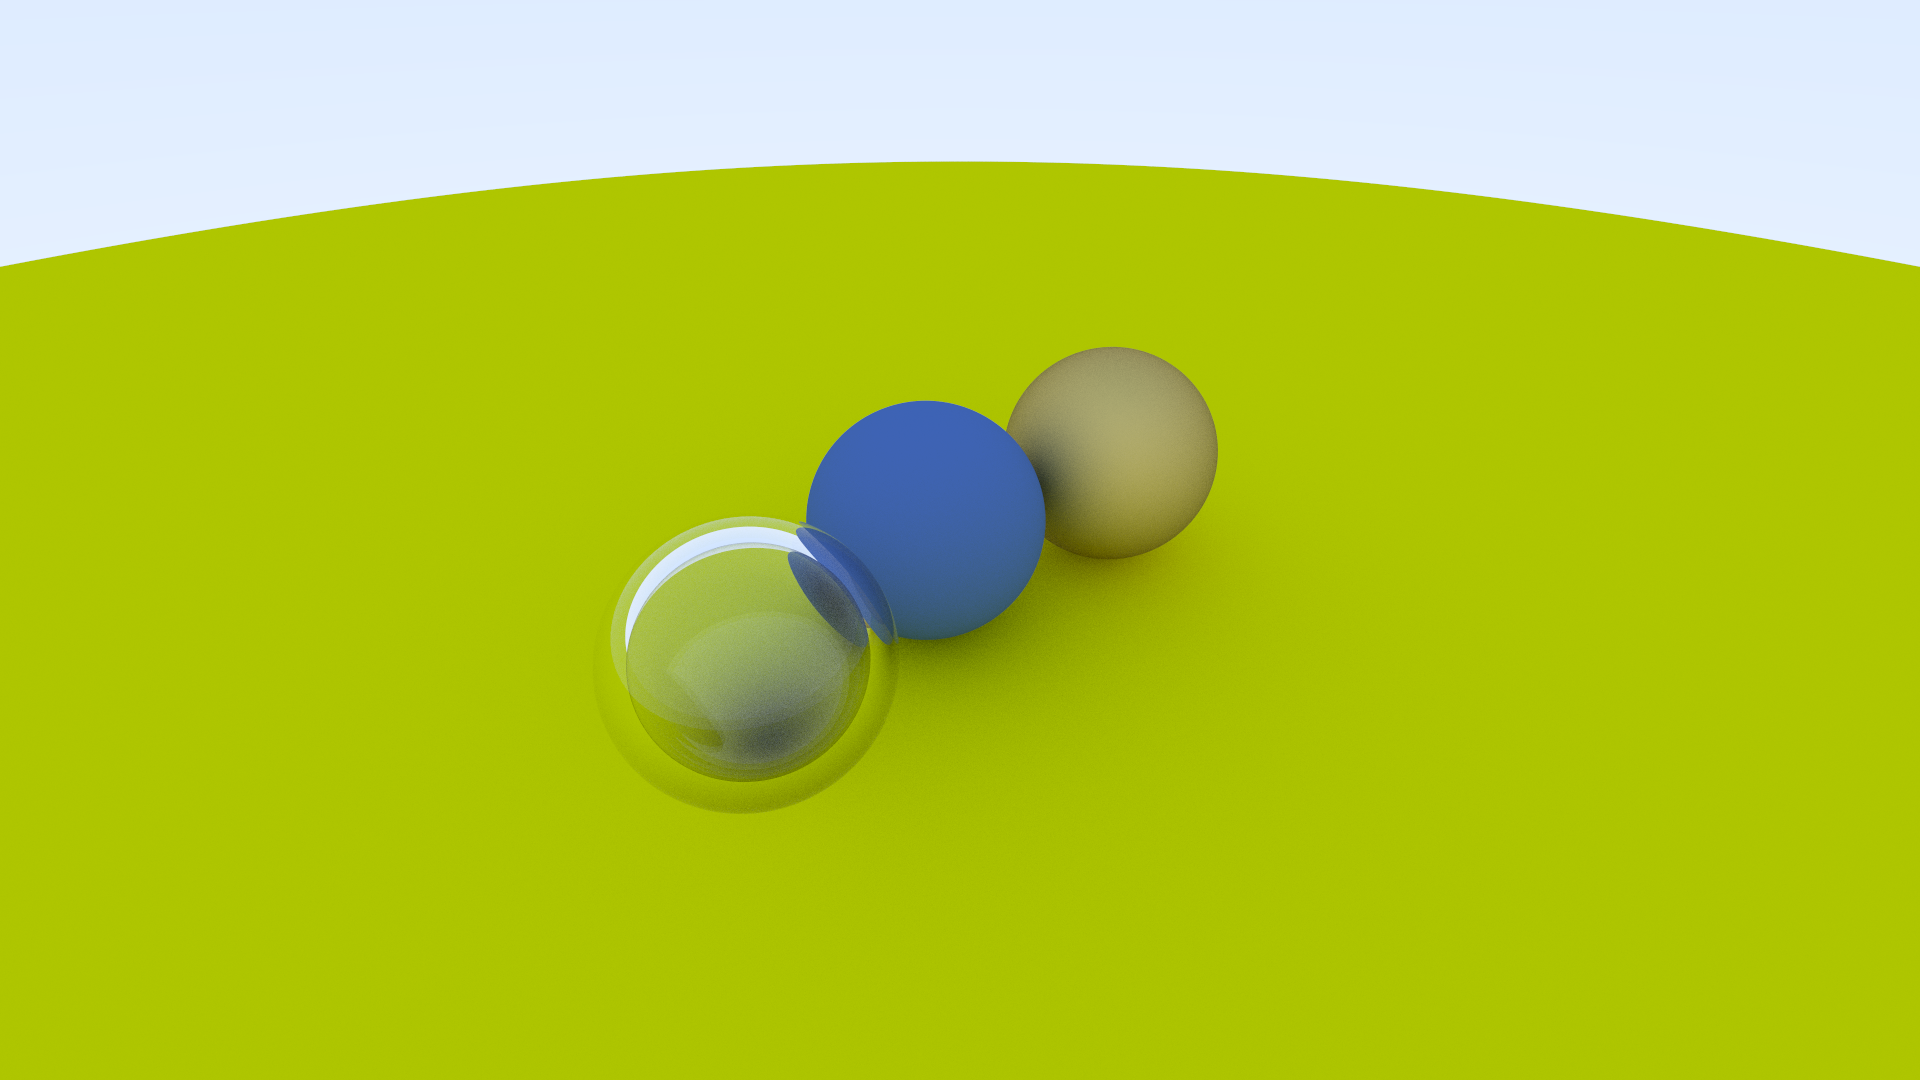
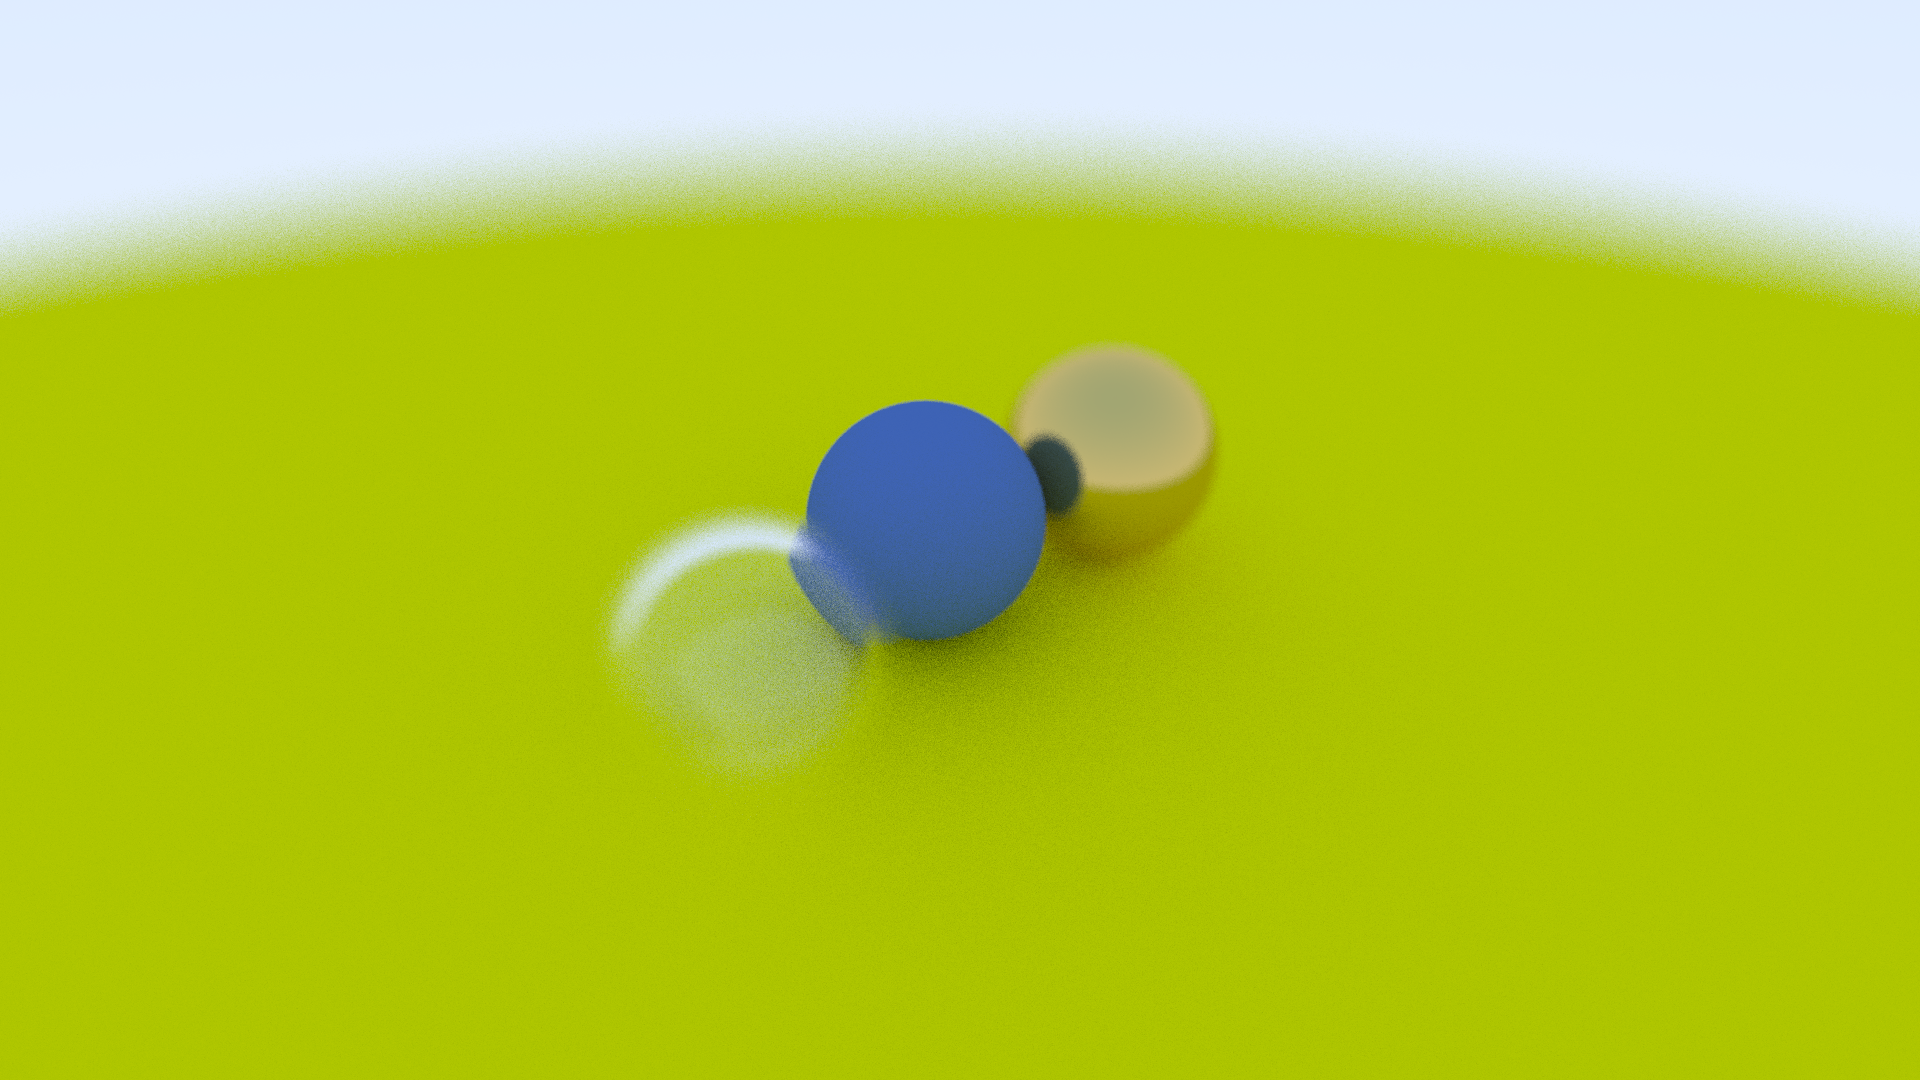
added depth of field

diff --git a/src/camera.rs b/src/camera.rs
@@ -8,7 +8,12 @@ use crate::{
     material::Scatter,
     object::{Hittable, World},
     ray::Ray,
-    utils::{self, math, rng::random_float, Interval},
+    utils::{
+        self,
+        math::{self, deg_to_rad},
+        rng::random_float,
+        Interval,
+    },
     vec3::{Color, Point3, Vec3},
 };
 
@@ -27,6 +32,9 @@ pub struct Camera {
     num_samples: u32, // number of samples taken of each pixel in the frame
     px_sample_scale: f32, // Color scale factor for a sum of pixel samples
     max_bounce_depth: u32, // maximum number of bounces a ray can perform before expiring
+    depth_of_field_angle: f32, // variation angle of rays through each pixel
+    focus_distance: f32, // distance from the camera to the plane of perfect focus
+    defocus_disk: (Vec3, Vec3), // defocus disk x and y radius
 }
 
 impl Camera {
@@ -69,6 +77,8 @@ impl Camera {
         num_samples: u32,
         max_bounce_depth: u32,
         fov: f32,
+        focus_distance: f32,
+        depth_of_field_angle: f32,
         direction: Vec3,
         camera_up: Vec3,
         camera_pos: Vec3,
@@ -80,11 +90,11 @@ impl Camera {
         // Camera
         // real aspect ratio differs because of flooring when converting to a u32
         let real_aspect_ratio = image_width as f32 / image_height as f32;
-        let focal_length = direction.len();
+
         // calc viewport height from fov
         let theta = math::deg_to_rad(fov);
         let h = (theta / 2.).tan();
-        let viewport_height = 2. * h * focal_length;
+        let viewport_height = 2. * h * focus_distance;
         let viewport_width = viewport_height * (real_aspect_ratio);
 
         // init camera basis frame
@@ -105,8 +115,11 @@ impl Camera {
         let px_dy = viewport_y / image_height as f32;
 
         // calc the location of the top left pixel
-        let viewport_top_left = camera_pos - focal_length * w - viewport_x / 2. - viewport_y / 2.;
+        let viewport_top_left = camera_pos - focus_distance * w - viewport_x / 2. - viewport_y / 2.;
         let px_top_left = viewport_top_left + 0.5 * (px_dx + px_dy);
+
+        let defocus_radius = focus_distance * deg_to_rad(depth_of_field_angle / 2.).tan();
+        let defocus_disk = (u * defocus_radius, v * defocus_radius);
 
         Camera {
             aspect_ratio,
@@ -123,6 +136,9 @@ impl Camera {
             direction,
             camera_up,
             camera_basis_frame,
+            depth_of_field_angle,
+            focus_distance,
+            defocus_disk,
         }
     }
 
@@ -134,8 +150,14 @@ impl Camera {
         let px_sample =
             self.px_top_left + ((x + offset.x()) * self.px_dx) + ((y + offset.y()) * self.px_dy);
 
-        let direction = px_sample - self.camera_pos;
-        return Ray::new(self.camera_pos, direction);
+        let origin = if self.depth_of_field_angle > 0. {
+            self.depth_of_field_disk_sample()
+        } else {
+            self.camera_pos
+        };
+
+        let direction = px_sample - origin;
+        return Ray::new(origin, direction);
     }
 
     fn ray_color(ray: &Ray, world: &World, num_bounces: u32) -> Color {
@@ -163,5 +185,13 @@ impl Camera {
 
     fn sample_square() -> Vec3 {
         Vec3::new(utils::rng::random_float() - 0.5, random_float() - 0.5, 0.)
+    }
+
+    fn depth_of_field_disk_sample(&self) -> Point3 {
+        // get a random point in the camera DoF disk or lens
+        let point = Vec3::random_in_unit_circle_xy();
+        return self.camera_pos
+            + (point.x() * self.defocus_disk.0)
+            + (point.y() * self.defocus_disk.1);
     }
 }

diff --git a/src/scenes/surface_normals.rs b/src/scenes/surface_normals.rs
@@ -8,9 +8,10 @@ pub fn surface_normals() -> ImageBuffer<image::Rgb<u8>, Vec<u8>> {
     let aspect_ratio = 16. / 9.;
     let image_width: u32 = 1920;
     let fov = 65.;
-    let focal_length = 1.;
-    let num_samples = 300;
-    let max_bounce_depth = 8;
+    let focus_distance = 3.4;
+    let depth_of_field_angle = 10.;
+    let num_samples = 32;
+    let max_bounce_depth = 16;
     let camera_pos = Point3::new(-2., 2., 1.);
     let target = Point3::new(0., 0., -1.);
     let direction = camera_pos - target;
@@ -23,7 +24,7 @@ pub fn surface_normals() -> ImageBuffer<image::Rgb<u8>, Vec<u8>> {
     let mat_grnd = Material::Diffuse(Diffuse::new(&Color::new(0.8, 0.8, 0.0)));
     let mat_left = Material::Dielectric(Dielectric::new(1.5));
     let mat_bubble = Material::Dielectric(Dielectric::new(1. / 1.5));
-    let mat_right = Material::Metallic(Metallic::new(&Color::new(0.8, 0.6, 0.2), 1.));
+    let mat_right = Material::Metallic(Metallic::new(&Color::new(0.8, 0.6, 0.2), 0.0));
 
     world.push(Object::Sphere(Sphere::new(
         Point3::new(0., -100.5, -1.),
@@ -60,6 +61,8 @@ pub fn surface_normals() -> ImageBuffer<image::Rgb<u8>, Vec<u8>> {
         num_samples,
         max_bounce_depth,
         fov,
+        focus_distance,
+        depth_of_field_angle,
         direction,
         camera_up,
         camera_pos,

diff --git a/src/vec3.rs b/src/vec3.rs
@@ -3,6 +3,8 @@ use std::{
     ops::{Add, AddAssign, DerefMut, Div, DivAssign, Mul, MulAssign, Neg, Range, Sub, SubAssign},
 };
 
+use rand::random;
+
 use crate::utils::{
     rng::{random_float, random_float_range},
     Interval,
@@ -78,6 +80,22 @@ impl Vec3 {
                 return v;
             }
         }
+    }
+
+    // returns a unit sphere or circle on the axes that are not 0
+    pub fn random_in_unit_dim(dimensions: Vec3) -> Vec3 {
+        // cap to unit
+        let dimensions = Vec3::new(
+            1.0f32.min(dimensions.x().max(0.)),
+            1.0f32.min(dimensions.y().max(0.)),
+            1.0f32.min(dimensions.z().max(0.)),
+        );
+
+        Vec3::random_in_unit_sphere() * dimensions
+    }
+
+    pub fn random_in_unit_circle_xy() -> Vec3 {
+        Self::random_in_unit_dim(Vec3::new(1., 1., 0.))
     }
 
     pub fn random_unit() -> Vec3 {

diff --git a/src/scenes/mod.rs b/src/scenes/mod.rs
@@ -1,8 +1,6 @@
-mod moveable_camera;
 mod ray_background;
 mod ray_sphere;
 mod spectrum;
 mod surface_normals;
 
-pub use moveable_camera::moveable_camera;
 pub use surface_normals::surface_normals;
